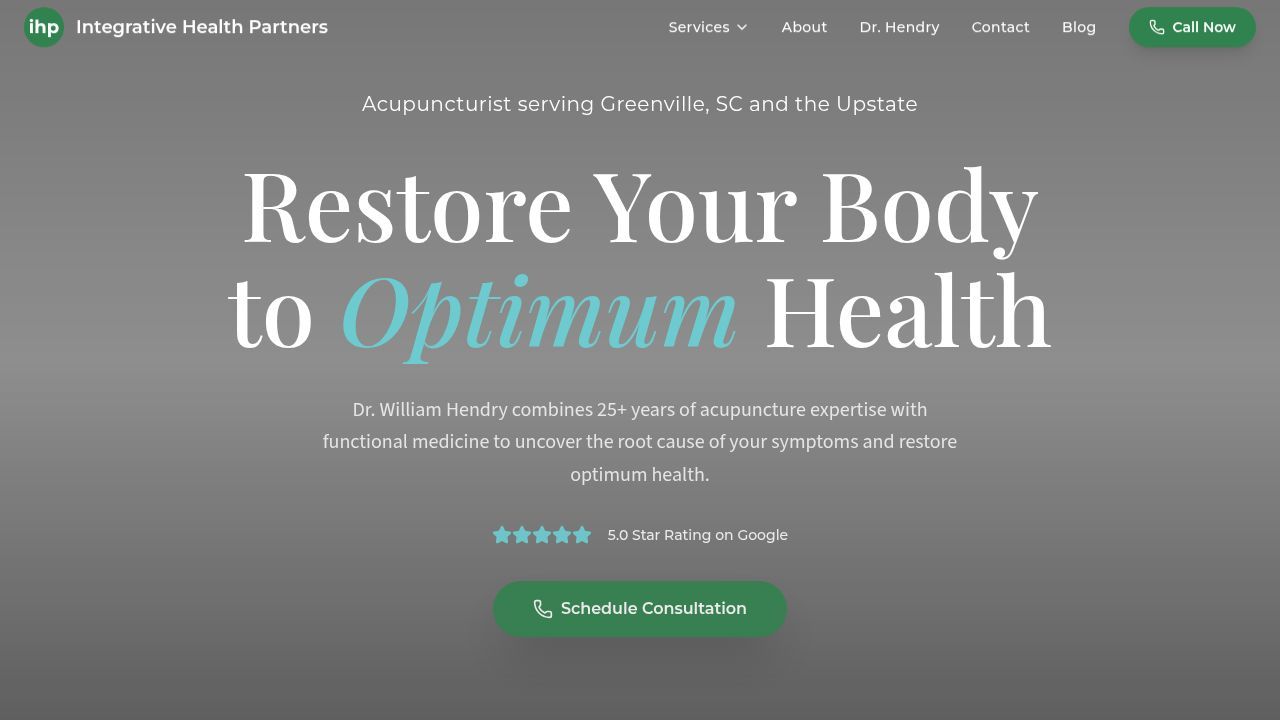
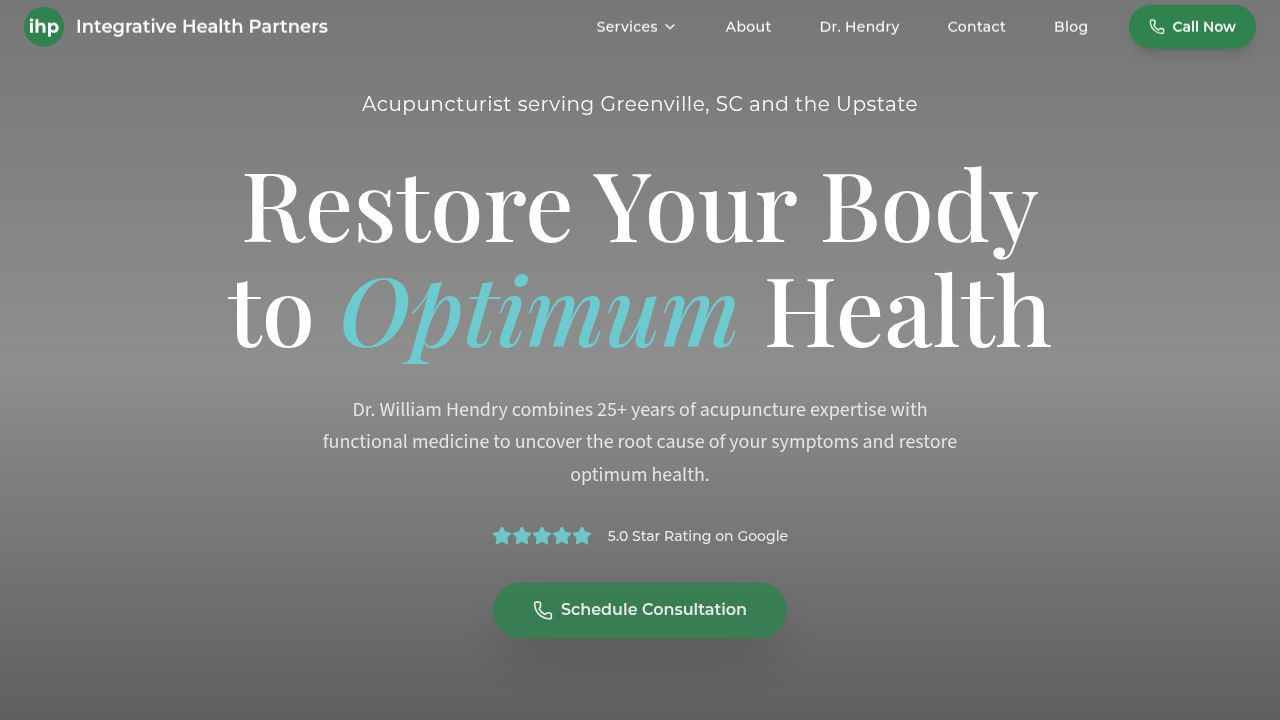
Add "Services" to the end of secondary category titles on the website
Updates navigation dropdown, category page headings, and home page category sections to append "Services" to secondary category titles.

Replit-Commit-Author: Agent
Replit-Commit-Session-Id: 74150cf5-3555-4c0d-bdb2-b96c3fdb5811
Replit-Commit-Checkpoint-Type: full_checkpoint
Replit-Commit-Event-Id: 0d13ea83-614b-488b-96c1-2f5d769c1414
Replit-Commit-Screenshot-Url: https://storage.googleapis.com/screenshot-production-us-central1/0183b231-1269-4c25-9d9e-49f47723ea16/74150cf5-3555-4c0d-bdb2-b96c3fdb5811/EzhoRru
Replit-Helium-Checkpoint-Created: true

diff --git a/client/src/components/Navigation.tsx b/client/src/components/Navigation.tsx
@@ -72,7 +72,7 @@ export function Navigation() {
                       className="block px-4 py-3 rounded-lg hover:bg-muted transition-colors"
                     >
                       <span className="font-heading text-sm font-medium text-foreground block">
-                        {category.name}
+                        {category.name} Services
                       </span>
                       <span className="text-xs text-muted-foreground">
                         {category.services.length} services
@@ -148,7 +148,7 @@ export function Navigation() {
                     href={`/services/${category.slug}`}
                     className="block font-heading text-sm font-medium text-foreground py-3 hover:text-primary transition-colors min-h-[44px] flex items-center"
                   >
-                    {category.name}
+                    {category.name} Services
                   </Link>
                 ))}
               </div>

diff --git a/client/src/pages/category.tsx b/client/src/pages/category.tsx
@@ -285,7 +285,7 @@ export default function CategoryPage() {
                       className="block bg-card rounded-xl p-6 border border-border hover:border-primary/20 hover:shadow-lg transition-all group"
                     >
                       <h3 className="font-heading font-semibold text-foreground group-hover:text-primary transition-colors mb-2">
-                        {cat.name}
+                        {cat.name} Services
                       </h3>
                       <p className="text-sm text-muted-foreground mb-3">
                         {cat.services.length} services available

diff --git a/client/src/pages/home.tsx b/client/src/pages/home.tsx
@@ -203,7 +203,7 @@ export default function Home() {
                     <ArrowRight className="w-5 h-5 text-muted-foreground group-hover:text-primary group-hover:translate-x-1 transition-all" />
                   </div>
                   <h3 className="font-heading text-xl font-semibold text-foreground group-hover:text-primary transition-colors mb-2">
-                    {category.name}
+                    {category.name} Services
                   </h3>
                   <p className="text-sm text-muted-foreground mb-4">
                     {category.services.length} specialized services